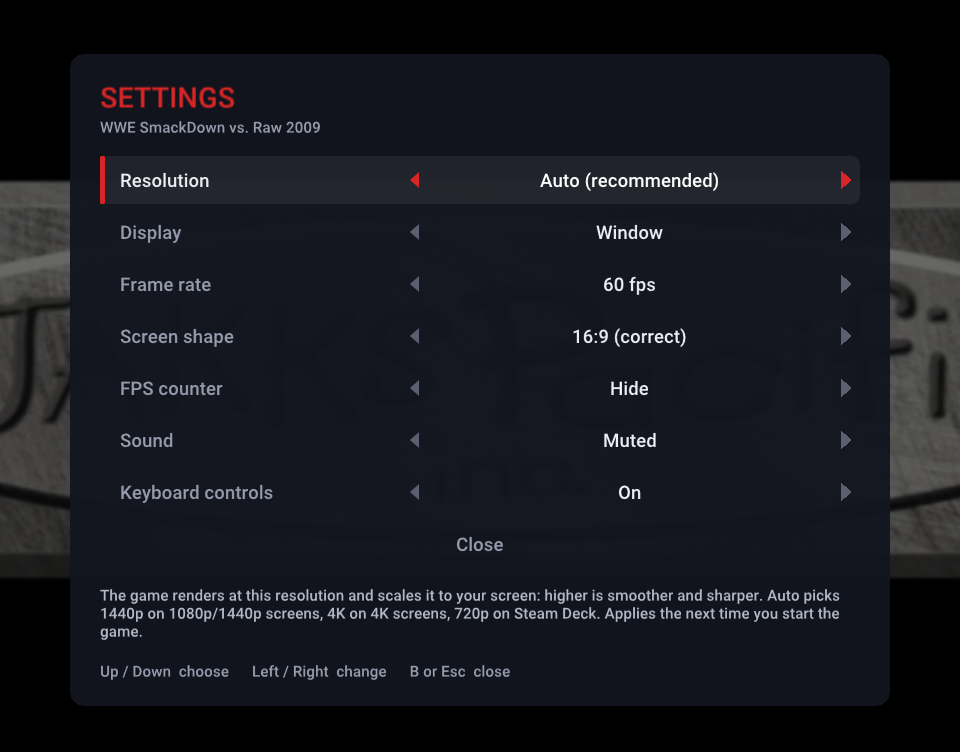
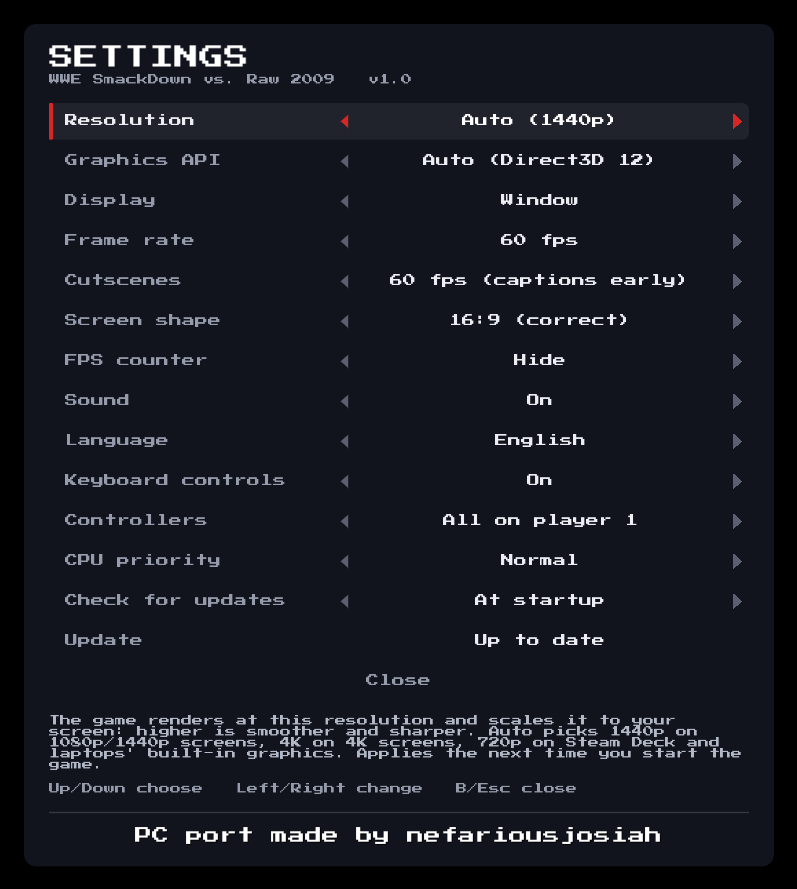
README: new showcase clips, current settings menu, languages
Four new showcase GIFs from fresh gameplay, a screenshot of the current settings menu (pixel font, Language row, v1.0), a 'Play in your language' feature, the 1.0 note instead of 'work in progress', the font credits and the known issues brought up to date.

diff --git a/README.md b/README.md
@@ -19,16 +19,22 @@ loading.
 > game, **F1** (or **Back + Start** on a controller, **View + Menu** on the Steam Deck) opens the
 > settings menu.
 
-> **Work in progress.** This port gets regular updates, and bugs are fixed as they're found and
-> reported, so don't expect a finished port yet. If you run into a problem, please
+> **Version 1.0, still updated.** The port gets regular updates, and bugs are fixed as they're
+> found and reported. If you run into a problem, please
 > [open an issue](https://github.com/nefariousjosiah/WWE-SVR2009-RECOMP/issues) with your graphics
 > card, `game.log` from the game's folder and a screenshot.
 
-![The in-game settings menu (F1, or Back + Start on a controller)](docs/settings-menu.png)
+<p align="center">
+  <img src="docs/settings-menu.png" width="520" alt="The in-game settings menu (F1, or Back + Start on a controller)">
+</p>
 
 ## Showcase
 
 <p align="center">
+  <img src="docs/showcase/dx-entrance.gif" width="480" alt="D-Generation X's entrance under the green X">
+  <img src="docs/showcase/ladder.gif" width="480" alt="Triple H crashes off a ladder in a TLC match">
+  <img src="docs/showcase/over-the-top.gif" width="480" alt="Doink throws the Undertaker over the top rope in an Inferno match">
+  <img src="docs/showcase/inferno.gif" width="480" alt="The Undertaker is set alight in an Inferno match">
   <img src="docs/showcase/entrance.gif" width="480" alt="Triple H's entrance">
   <img src="docs/showcase/pedigree.gif" width="480" alt="Triple H hits the Pedigree on the Undertaker">
   <img src="docs/showcase/spinebuster.gif" width="480" alt="Triple H's spinebuster on the Undertaker">
@@ -66,6 +72,9 @@ loading.
   fullscreen or window, 60 or 30 fps, screen shape, FPS counter, sound, **language** (English,
   Spanish, French, German or Italian), keyboard controls, how controllers map to players and CPU
   priority. Saved for next time.
+- **Play in your language:** English, Español, Français, Deutsch or Italiano, the languages on
+  the disc. Pick one under **Language** in the settings menu and press A twice to restart
+  straight into it. (The commentary is English only, as on the disc.)
 - **Updates in the game, when you want them:** a new version is announced at startup and installed
   from the settings menu only if you choose to. Your saves are kept and backed up first (see
   [Updating](#updating)).
@@ -291,9 +300,9 @@ Notes for the Deck:
 - **Local multiplayer:** set **Controllers** to **Separate players** in the settings menu first
   (by default every controller is player 1). With Separate players, if a controller shows up twice
   (Steam Input, DS4Windows, DSX) and the copy drops out, the game pauses for player 2 ("2P
-  paused") until it comes back: close or turn off the app making the copy. Problems? Send
-  `game.log` from the game's folder in
-  [issue #3](https://github.com/nefariousjosiah/WWE-SVR2009-RECOMP/issues/3).
+  paused") until it comes back: close or turn off the app making the copy. Problems?
+  [Open an issue](https://github.com/nefariousjosiah/WWE-SVR2009-RECOMP/issues) with `game.log`
+  from the game's folder.
 
 ## Troubleshooting
 
@@ -354,9 +363,10 @@ sources, `tools/` build scripts, `docs/` the images on this page.
 - [re:Blue](https://github.com/zolaware/reblue) (Blue Dragon), the renderer this one is adapted
   from, with [plume](https://github.com/zolaware/plume) and
   [XenosRecomp](https://github.com/zolaware/reblue-XenosRecomp).
-- The settings menu: [Dear ImGui](https://github.com/ocornut/imgui) and the Roboto font;
+- The settings menu: [Dear ImGui](https://github.com/ocornut/imgui), with the Press Start 2P and
+  Roboto fonts;
   [SDL](https://libsdl.org) for controllers and sound.
-- [zstd](https://github.com/facebook/zstd); the Press Start 2P font.
+- [zstd](https://github.com/facebook/zstd).
 - Inside the runtime: [FFmpeg](https://ffmpeg.org) (audio),
   [libmspack](https://github.com/kyz/libmspack) and the other libraries the ReXGlue SDK uses.
 
